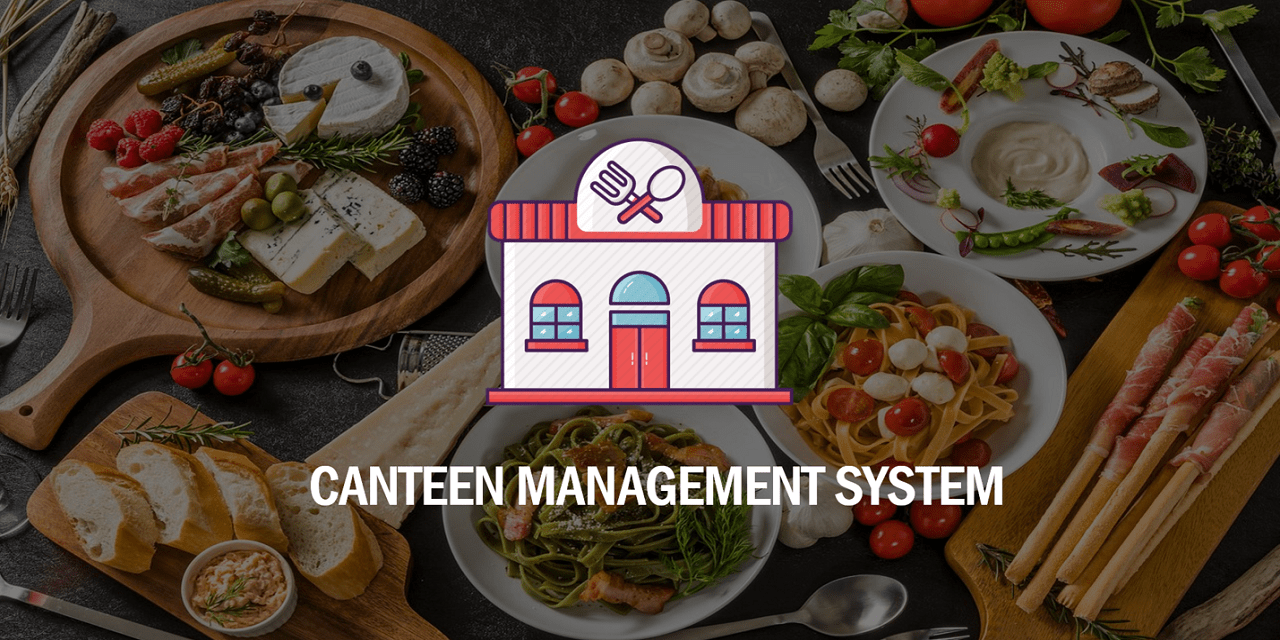
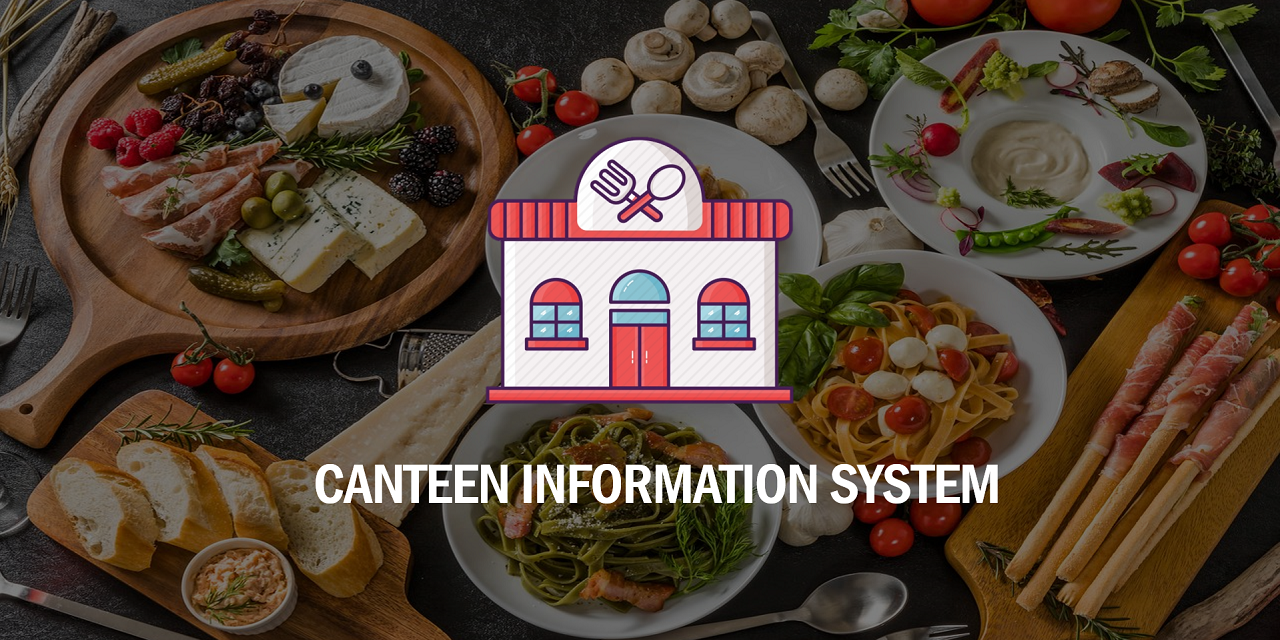
Updated README.md

diff --git a/README.md b/README.md
@@ -1,8 +1,8 @@
-# Canteen Management System
+# Canteen Information System
 
 ![Cover](images/cover.png)
 
-A real-time canteen information system software that can store and display all the information of stalls in the NTU North Spine Canteen. It can:  
+A real-time canteen information software that can store and display all the information of stalls in the NTU North Spine Canteen. It can:  
 + Store and display stall information
 + Store and display stall menus
 + Display stall information and menus based on current system date and time
@@ -50,7 +50,7 @@ pip install pygame
 ```
 Then clone this repo with:
 ```
-git clone https://github.com/mohamedirfansh/Canteen-Management-System.git
+git clone https://github.com/mohamedirfansh/Canteen-Information-System.git
 ```
 Finally, run ```main.py```.
 
@@ -69,7 +69,7 @@ Finally, run ```main.py```.
 
 ## License
 
-[![GitHub](https://img.shields.io/github/license/mohamedirfansh/Canteen-Management-System)](https://github.com/mohamedirfansh/Canteen-Management-System/blob/master/LICENSE)
+[![GitHub](https://img.shields.io/github/license/mohamedirfansh/Canteen-Information-System)](https://github.com/mohamedirfansh/Canteen-Information-System/blob/master/LICENSE)
 
-This project is licensed under the **[MIT License](http://opensource.org/licenses/mit-license.php)** - see the [LICENSE](https://github.com/mohamedirfansh/Canteen-Management-System/blob/master/LICENSE) file for more details.  
+This project is licensed under the **[MIT License](http://opensource.org/licenses/mit-license.php)** - see the [LICENSE](https://github.com/mohamedirfansh/Canteen-Information-System/blob/master/LICENSE) file for more details.  
 
